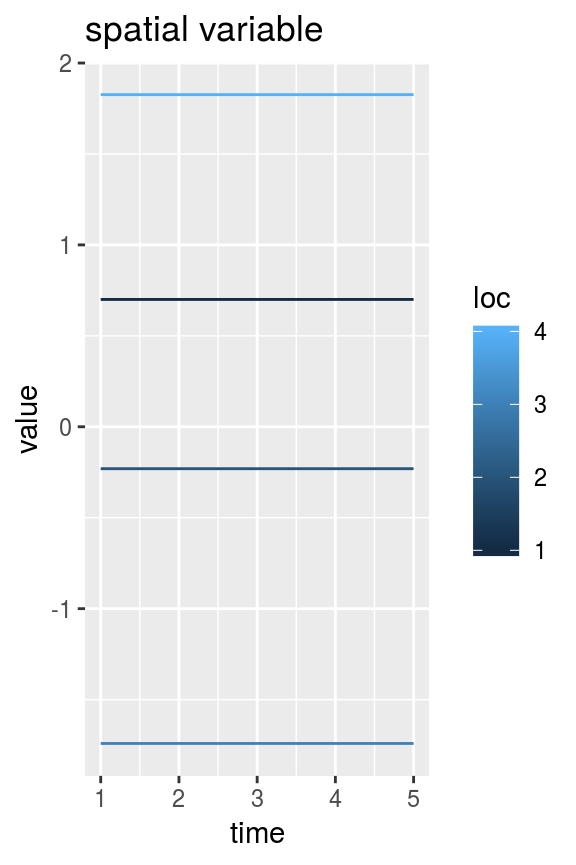
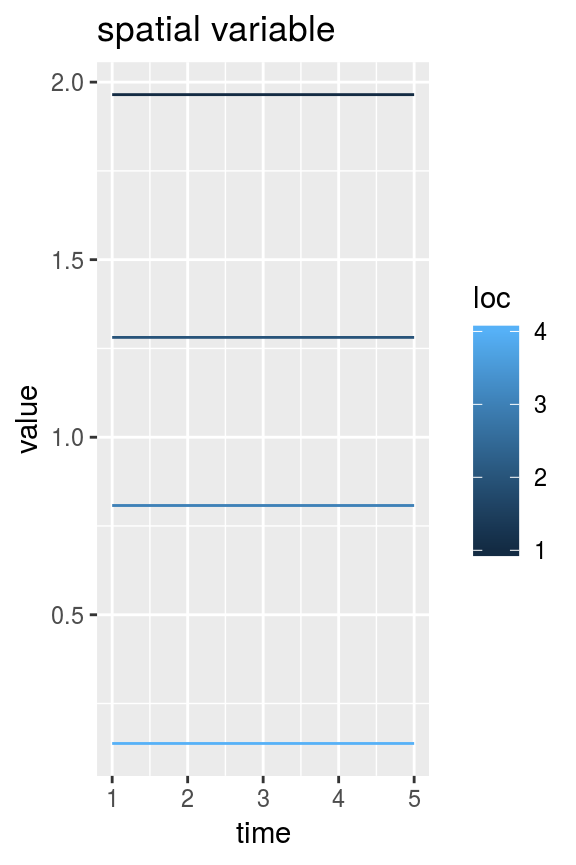
fixed export of swot_A

diff --git a/docs/articles/swotr.html b/docs/articles/swotr.html
@@ -70,7 +70,7 @@
       <h1>swotr Introduction</h1>
                         <h4 class="author">Mark Hagemann</h4>
             
-            <h4 class="date">2018-07-13</h4>
+            <h4 class="date">2018-07-17</h4>
       
       <small class="dont-index">Source: <a href="https://github.com/markwh/swotr/blob/master/vignettes/swotr.Rmd"><code>vignettes/swotr.Rmd</code></a></small>
       <div class="hidden name"><code>swotr.Rmd</code></div>
@@ -133,15 +133,15 @@ space_mat &lt;-<span class="st"> </span><span class="kw"><a href="../reference/s
 <div class="sourceCode"><pre class="sourceCode r"><code class="sourceCode r">tidydf1 &lt;-<span class="st"> </span><span class="kw"><a href="../reference/swot_tidy.html">swot_tidy</a></span>(list1)
 <span class="kw">str</span>(tidydf1)
 <span class="co">#&gt; 'data.frame':    20 obs. of  4 variables:</span>
-<span class="co">#&gt;  $ var1: num  1.257 -0.15 0.675 0.166 1.514 ...</span>
-<span class="co">#&gt;  $ var2: num  0.765 0.792 0.505 -1.208 1.804 ...</span>
+<span class="co">#&gt;  $ var1: num  -0.193 0.54 -1.346 -0.99 -0.135 ...</span>
+<span class="co">#&gt;  $ var2: num  0.637 0.415 -0.239 -0.873 -1.441 ...</span>
 <span class="co">#&gt;  $ time: int  1 1 1 1 2 2 2 2 3 3 ...</span>
 <span class="co">#&gt;  $ loc : int  1 2 3 4 1 2 3 4 1 2 ...</span></code></pre></div>
 <p>To go back to the original swotlist for, use <code>swot_untidy</code>.</p>
 <div class="sourceCode"><pre class="sourceCode r"><code class="sourceCode r"><span class="kw">str</span>(<span class="kw"><a href="../reference/swot_untidy.html">swot_untidy</a></span>(tidydf1))
 <span class="co">#&gt; List of 2</span>
-<span class="co">#&gt;  $ var1: num [1:4, 1:5] 1.257 -0.15 0.675 0.166 1.514 ...</span>
-<span class="co">#&gt;  $ var2: num [1:4, 1:5] 0.765 0.792 0.505 -1.208 1.804 ...</span></code></pre></div>
+<span class="co">#&gt;  $ var1: num [1:4, 1:5] -0.193 0.54 -1.346 -0.99 -0.135 ...</span>
+<span class="co">#&gt;  $ var2: num [1:4, 1:5] 0.637 0.415 -0.239 -0.873 -1.441 ...</span></code></pre></div>
 <p><code>swot_tidy</code> is used under the hood for many of <strong>swotr</strong>’s plotting functions (and some other functions), since ggplot2 takes a <code>data.frame</code> as input.</p>
 </div>
 <div id="netcdfs" class="section level2">
